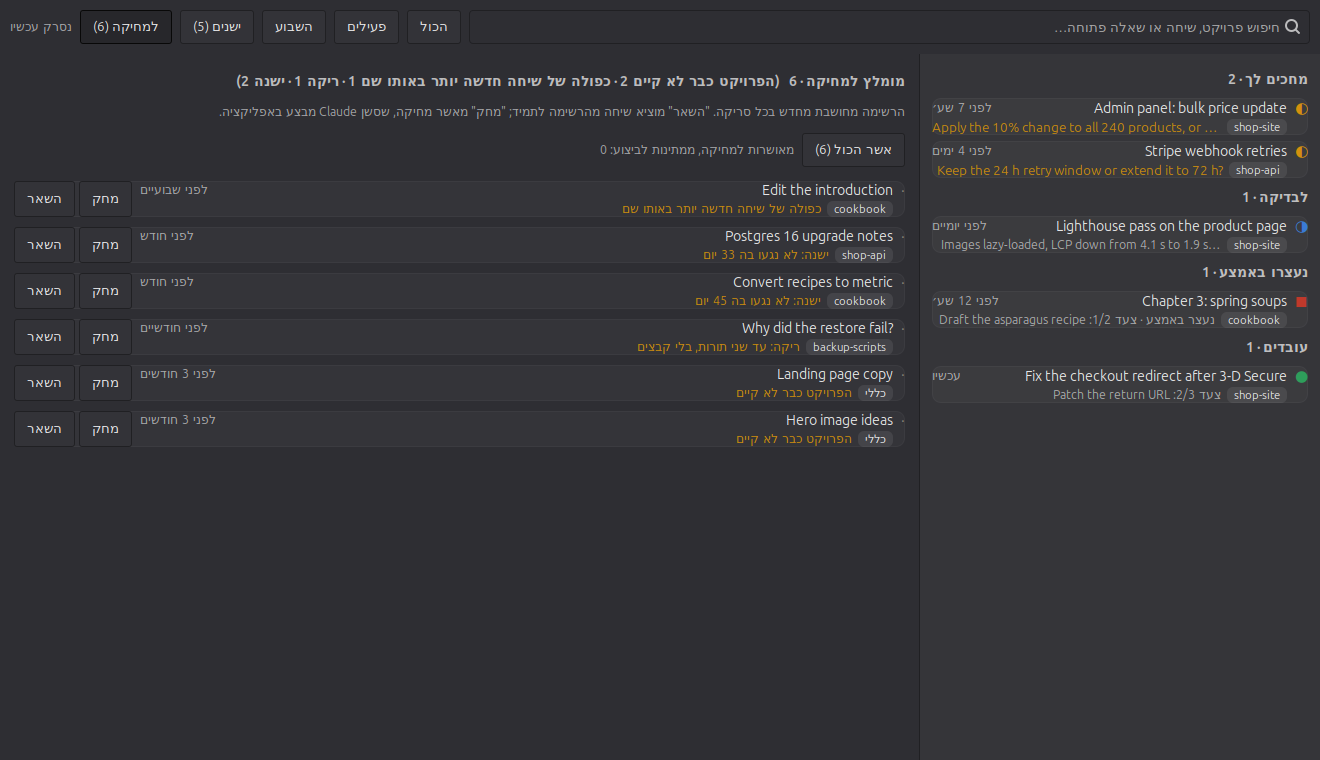
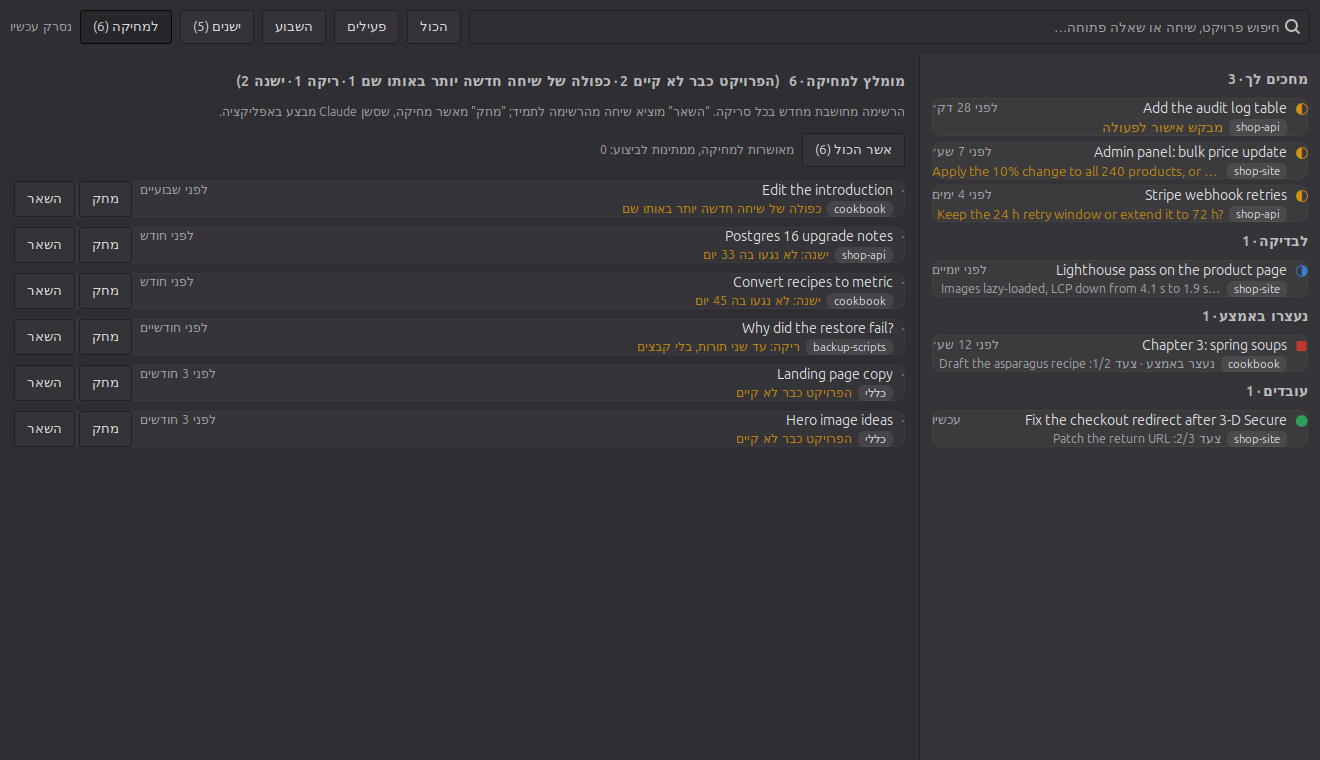
feat(demo): the demo home fakes the listing; waitingFor labels in the window

Changed region(s): [[0.7144, 0.1211, 0.9939, 0.6053]]

diff --git a/scripts/demo_home.py b/scripts/demo_home.py
@@ -1,10 +1,14 @@
 #!/usr/bin/env python3
 """Build a fake home with made-up projects and Claude sessions, for screenshots and trials.
 
-    MISHLAT_HOME=$(python3 scripts/demo_home.py) mishlat scan
-    MISHLAT_HOME=$(python3 scripts/demo_home.py) MISHLAT_PROC_ROOT=$MISHLAT_HOME/_proc mishlat
+    H=$(python3 scripts/demo_home.py)
+    MISHLAT_HOME=$H MISHLAT_AGENTS_CMD="cat $H/_agents.json" mishlat scan
+    MISHLAT_HOME=$H MISHLAT_AGENTS_CMD="cat $H/_agents.json" mishlat
 
 Prints the home's path. Nothing is personal: the projects, titles and prompts are invented.
+The live sessions are faked twice: `_agents.json` is what `claude agents --json` would print
+(the primary source), and `.claude/sessions` + `_proc` feed the registry fallback
+(`MISHLAT_AGENTS_DISABLE=1 MISHLAT_PROC_ROOT=$H/_proc` shows that path instead).
 """
 
 from __future__ import annotations
@@ -33,6 +37,7 @@ class Demo:
         os.makedirs(self.proc)
         os.makedirs(os.path.join(root, ".claude/sessions"))
         self.n = 0
+        self.agents: list[dict] = []  # what `claude agents --json` prints for the alive sessions
 
     def repo(self, rel: str, readme: str | None = None, branch: str = "main") -> str:
         path = os.path.join(self.root, "Desktop", rel)
@@ -46,7 +51,10 @@ class Demo:
 
     def session(self, cwd: str, title: str, ago_days: float, turns: int = 6, status: str | None = None,
                 question: str = "", detail: str = "", writes: int = 3, prompt: str = "", plan=None,
-                interrupted: bool = False, alive: bool = False, transcript: bool = True, starred: bool = False) -> str:
+                interrupted: bool = False, alive: bool = False, transcript: bool = True, starred: bool = False,
+                live_status: str = "busy", waiting_for: str | None = None) -> str:
+        """`alive`: a live Claude Code process; `live_status` is what the CLI's listing says of it
+        (busy / waiting / idle) and `waiting_for` what a waiting one waits for."""
         self.n += 1
         sid, cli = f"local_demo{self.n:04d}", f"0000{self.n:04d}-0000-4000-8000-{self.n:012d}"
         last = NOW - int(ago_days * DAY)
@@ -84,6 +92,12 @@ class Demo:
             fields = ["S"] + [str(i) for i in range(1, 19)] + ["777"] + ["0"] * 10
             with open(os.path.join(self.proc, str(pid), "stat"), "w") as f:
                 f.write(f"{pid} (claude) " + " ".join(fields) + "\n")
+            entry = {"pid": pid, "cwd": cwd, "kind": "interactive", "startedAt": last, "sessionId": cli,
+                     "name": title, "status": live_status}
+            if waiting_for:
+                entry["waitingFor"] = waiting_for
+            self.agents.append(entry)
+        if alive and live_status == "busy":  # a turn runs: the transcript is being written
             d = os.path.join(self.root, ".claude/projects", encode(cwd), f"{cli}.jsonl")
             os.utime(d, None)  # written just now: working
             with open(d, "a", encoding="utf-8") as f:
@@ -108,7 +122,10 @@ def build(root: str) -> None:
     d.session(shop, "Lighthouse pass on the product page", 2, turns=7, status="review_ready",
               detail="Images lazy-loaded, LCP down from 4.1 s to 1.9 s; please check the gallery on mobile")
     d.session(shop, "Migrate the newsletter form", 9, turns=5)
-    d.session(api, "Rate limiting for the search endpoint", 1, turns=11, writes=8, starred=True)
+    d.session(api, "Rate limiting for the search endpoint", 1, turns=11, writes=8, starred=True, alive=True,
+              live_status="idle")
+    d.session(api, "Add the audit log table", 0.02, turns=4, alive=True, live_status="waiting",
+              waiting_for="permission prompt")
     d.session(api, "Stripe webhook retries", 4, turns=8, status="blocked", question="Keep the 24 h retry window or extend it to 72 h?")
     d.session(api, "Postgres 16 upgrade notes", 33, turns=4, writes=0)
     d.session(book, "Chapter 3: spring soups", 0.5, turns=12, interrupted=True,
@@ -121,6 +138,8 @@ def build(root: str) -> None:
     d.session(tools, "Why did the restore fail?", 70, turns=2, writes=0)
     d.session(os.path.join(root, "Desktop", "old-landing-page"), "Landing page copy", 90, turns=5, transcript=False)
     d.session(os.path.join(root, "Desktop", "old-landing-page"), "Hero image ideas", 95, turns=1, writes=0)
+    with open(os.path.join(root, "_agents.json"), "w", encoding="utf-8") as f:
+        json.dump(d.agents, f, ensure_ascii=False, indent=2)
 
 
 def main() -> int:

diff --git a/tests/test_demo.py b/tests/test_demo.py
@@ -1,0 +1,61 @@
+"""The demo home (scripts/demo_home.py) must show both live sources: the CLI's listing and the registry."""
+
+import importlib.util
+import os
+import subprocess
+import tempfile
+import unittest
+
+from mishlat.agents import parse_agents_json
+from mishlat.scan import Scanner
+
+REPO = os.path.normpath(os.path.join(os.path.dirname(__file__), ".."))
+
+
+def load_demo():
+    spec = importlib.util.spec_from_file_location("demo_home", os.path.join(REPO, "scripts", "demo_home.py"))
+    module = importlib.util.module_from_spec(spec)
+    spec.loader.exec_module(module)
+    return module
+
+
+class DemoHomeTest(unittest.TestCase):
+    def setUp(self):
+        self.tmp = tempfile.TemporaryDirectory()
+        self.root = self.tmp.name
+        load_demo().build(self.root)
+        self.git = lambda *a, **k: subprocess.CompletedProcess(a, 0, "", "")
+
+    def tearDown(self):
+        self.tmp.cleanup()
+
+    def by_title(self, index) -> dict:
+        return {s["title"]: s for p in index["projects"] for s in p["sessions"]}
+
+    def test_listing_is_the_primary_source(self):
+        with open(os.path.join(self.root, "_agents.json"), encoding="utf-8") as f:
+            listing = parse_agents_json(f.read())
+        self.assertEqual(sorted(e.status for e in listing.values()), ["busy", "idle", "waiting"])
+        env = {"MISHLAT_AGENTS_CMD": f"cat {self.root}/_agents.json", "MISHLAT_PROC_ROOT": f"{self.root}/_proc"}
+        index = Scanner(self.root, env=env, git_run=self.git).scan()
+        self.assertEqual((index["errors"], index["live_source"]), ([], "agents"))
+        rows = self.by_title(index)
+        self.assertEqual(rows["Fix the checkout redirect after 3-D Secure"]["state"], "working")
+        self.assertEqual(rows["Rate limiting for the search endpoint"]["state"], "open")
+        audit = rows["Add the audit log table"]
+        self.assertEqual((audit["state"], audit["question"]), ("waiting", "permission prompt"))
+        self.assertEqual(index["totals"]["working"], 1)
+        self.assertEqual(index["totals"]["open"], 1)
+
+    def test_registry_fallback(self):
+        env = {"MISHLAT_AGENTS_DISABLE": "1", "MISHLAT_PROC_ROOT": f"{self.root}/_proc"}
+        index = Scanner(self.root, env=env, git_run=self.git).scan()
+        self.assertEqual((index["errors"], index["live_source"]), ([], "registry"))
+        rows = self.by_title(index)
+        self.assertEqual(rows["Fix the checkout redirect after 3-D Secure"]["state"], "working")  # written now
+        self.assertEqual(rows["Rate limiting for the search endpoint"]["state"], "open")           # alive, quiet
+        self.assertEqual(rows["Add the audit log table"]["state"], "open")                         # no listing
+
+
+if __name__ == "__main__":
+    unittest.main()

diff --git a/tests/test_view.py b/tests/test_view.py
@@ -40,6 +40,8 @@ class EnglishTest(unittest.TestCase):
         self.assertEqual(view.format_age(NOW - 10_000, NOW), "now")
         self.assertEqual(view.count_label(7), "7 sessions")
         self.assertEqual(view.subline(sess("working", step="Build", steps_done=1, steps_total=4)), "step 2/4: \u2068Build\u2069")
+        self.assertEqual(view.subline(sess("waiting", question="permission prompt")), "asks you to approve an action")
+        self.assertEqual(view.subline(sess("waiting", question="input needed")), "needs your input")
         self.assertEqual(view.cleanup_reason_text(sess("idle", cleanup="old", last_activity=NOW - 45 * DAY_MS), NOW),
                          "stale: untouched for 45 days")
         self.assertEqual(view.status_text(None, NOW, scanning=True), "scanning…")
@@ -68,6 +70,10 @@ class LabelTest(unittest.TestCase):
     def test_sublines(self):
         self.assertEqual(view.subline(sess("waiting", question="Commit?")), "Commit?")
         self.assertEqual(view.subline(sess("waiting")), "מחכה לתשובה שלך")
+        self.assertEqual(view.subline(sess("waiting", question="permission prompt")), "מבקש אישור לפעולה")
+        self.assertEqual(view.subline(sess("waiting", question="dialog open")), "חלון פתוח באפליקציה")
+        self.assertEqual(view.subline(sess("waiting", question="worker request")), "מבקש אישור ל-worker")
+        self.assertEqual(view.subline(sess("waiting", question="something new")), "something new")
         self.assertEqual(view.subline(sess("review", detail="PDF ready")), "PDF ready")
         self.assertEqual(view.subline(sess("stopped", step="Write", steps_done=1, steps_total=3)),
                          "נעצר באמצע · צעד 2/3: \u2068Write\u2069")

diff --git a/mishlat/view.py b/mishlat/view.py
@@ -13,6 +13,13 @@ COLOR = {"working": "#2e9e5b", "open": "#8a8578", "waiting": "#d4900f", "review"
 STATE_LABEL = {"working": "עובד עכשיו", "open": "פתוח באפליקציה", "waiting": "מחכה לך",
                "review": "לבדיקה", "stopped": "נעצר באמצע", "idle": "סגור"}
 SECTIONS = (("waiting", "מחכים לך"), ("review", "לבדיקה"), ("stopped", "נעצרו באמצע"), ("working", "עובדים"))
+WAITING_FOR = {  # what `claude agents --json` says a session waits for (its five documented values)
+    "permission prompt": "מבקש אישור לפעולה",
+    "input needed": "מחכה לקלט ממך",
+    "sandbox request": "מבקש אישור ל-sandbox",
+    "worker request": "מבקש אישור ל-worker",
+    "dialog open": "חלון פתוח באפליקציה",
+}
 FILTERS = (("all", "הכול"), ("active", "פעילים"), ("week", "השבוע"), ("stale", "ישנים"), ("cleanup", "למחיקה"))
 CLEANUP_LABEL = {
     "gone": "הפרויקט כבר לא קיים",
@@ -85,7 +92,8 @@ def subline(s: dict) -> str:
     """The second line of a session row: what the user needs to know about it now (translated)."""
     state = s["state"]
     if state == "waiting":
-        return s.get("question") or t("מחכה לתשובה שלך")
+        question = s.get("question")
+        return t(WAITING_FOR[question]) if question in WAITING_FOR else (question or t("מחכה לתשובה שלך"))
     if state == "review":
         return s.get("detail") or t("סיים, מחכה לבדיקה")
     if state == "stopped":

diff --git a/plugin/lib/mishlat/view.py b/plugin/lib/mishlat/view.py
@@ -13,6 +13,13 @@ COLOR = {"working": "#2e9e5b", "open": "#8a8578", "waiting": "#d4900f", "review"
 STATE_LABEL = {"working": "עובד עכשיו", "open": "פתוח באפליקציה", "waiting": "מחכה לך",
                "review": "לבדיקה", "stopped": "נעצר באמצע", "idle": "סגור"}
 SECTIONS = (("waiting", "מחכים לך"), ("review", "לבדיקה"), ("stopped", "נעצרו באמצע"), ("working", "עובדים"))
+WAITING_FOR = {  # what `claude agents --json` says a session waits for (its five documented values)
+    "permission prompt": "מבקש אישור לפעולה",
+    "input needed": "מחכה לקלט ממך",
+    "sandbox request": "מבקש אישור ל-sandbox",
+    "worker request": "מבקש אישור ל-worker",
+    "dialog open": "חלון פתוח באפליקציה",
+}
 FILTERS = (("all", "הכול"), ("active", "פעילים"), ("week", "השבוע"), ("stale", "ישנים"), ("cleanup", "למחיקה"))
 CLEANUP_LABEL = {
     "gone": "הפרויקט כבר לא קיים",
@@ -85,7 +92,8 @@ def subline(s: dict) -> str:
     """The second line of a session row: what the user needs to know about it now (translated)."""
     state = s["state"]
     if state == "waiting":
-        return s.get("question") or t("מחכה לתשובה שלך")
+        question = s.get("question")
+        return t(WAITING_FOR[question]) if question in WAITING_FOR else (question or t("מחכה לתשובה שלך"))
     if state == "review":
         return s.get("detail") or t("סיים, מחכה לבדיקה")
     if state == "stopped":

diff --git a/mishlat/strings.py b/mishlat/strings.py
@@ -19,6 +19,10 @@ EN: dict[str, str] = {
     "עובד עכשיו": "working now", "פתוח באפליקציה": "open in the app", "מחכה לך": "waiting for you",
     "לבדיקה": "to review", "נעצר באמצע": "stopped midway", "סגור": "closed",
     "מחכים לך": "Waiting for you", "נעצרו באמצע": "Stopped midway", "עובדים": "Working",
+    # what `claude agents --json` says a session waits for
+    "מבקש אישור לפעולה": "asks you to approve an action", "מחכה לקלט ממך": "needs your input",
+    "מבקש אישור ל-sandbox": "asks to approve a sandbox request", "מבקש אישור ל-worker": "asks to approve a worker request",
+    "חלון פתוח באפליקציה": "a dialog is open in the app",
     "הכול": "All", "פעילים": "Active", "השבוע": "This week", "ישנים": "Stale", "למחיקה": "To delete",
     "ישנים ({n})": "Stale ({n})", "למחיקה ({n})": "To delete ({n})",
     # cleanup reasons

diff --git a/plugin/lib/mishlat/strings.py b/plugin/lib/mishlat/strings.py
@@ -19,6 +19,10 @@ EN: dict[str, str] = {
     "עובד עכשיו": "working now", "פתוח באפליקציה": "open in the app", "מחכה לך": "waiting for you",
     "לבדיקה": "to review", "נעצר באמצע": "stopped midway", "סגור": "closed",
     "מחכים לך": "Waiting for you", "נעצרו באמצע": "Stopped midway", "עובדים": "Working",
+    # what `claude agents --json` says a session waits for
+    "מבקש אישור לפעולה": "asks you to approve an action", "מחכה לקלט ממך": "needs your input",
+    "מבקש אישור ל-sandbox": "asks to approve a sandbox request", "מבקש אישור ל-worker": "asks to approve a worker request",
+    "חלון פתוח באפליקציה": "a dialog is open in the app",
     "הכול": "All", "פעילים": "Active", "השבוע": "This week", "ישנים": "Stale", "למחיקה": "To delete",
     "ישנים ({n})": "Stale ({n})", "למחיקה ({n})": "To delete ({n})",
     # cleanup reasons

diff --git a/scripts/test_graph.py b/scripts/test_graph.py
@@ -44,6 +44,8 @@ CONFIG = {
 MANUAL_MAP: dict[str, list[str]] = {
     "tests/test_store.py": ["mishlat/store.py", "mishlat/paths.py"],
     "tests/test_live.py": ["mishlat/live.py"],
+    "tests/test_agents.py": ["mishlat/agents.py"],
+    "tests/test_demo.py": ["scripts/demo_home.py", "mishlat/scan.py"],
     "tests/test_transcripts.py": ["mishlat/transcripts.py"],
     "tests/test_folders.py": ["mishlat/folders.py", "mishlat/gitinfo.py"],
     "tests/test_model_resolve.py": ["mishlat/model.py"],

diff --git a/scripts/screenshot.py b/scripts/screenshot.py
@@ -21,6 +21,7 @@ def main() -> int:
                           check=True).stdout.strip()
     os.environ["MISHLAT_HOME"] = home
     os.environ["MISHLAT_PROC_ROOT"] = os.path.join(home, "_proc")
+    os.environ["MISHLAT_AGENTS_CMD"] = "cat " + os.path.join(home, "_agents.json")
     os.makedirs(OUT, exist_ok=True)
     import gi
     gi.require_version("Gtk", "3.0")

diff --git a/features-prompts/agents-json/_PROGRESS.md b/features-prompts/agents-json/_PROGRESS.md
@@ -53,11 +53,11 @@ registry + `/proc` reader as the fallback, so nothing gets worse when the comman
    the "Needs you" list has a row ending with `— permission prompt`.
 5. `python3 -m pytest -q` ⇒ green; `python3 scripts/screenshot.py` ⇒ six PNGs rewritten.
 
-## ⏳ Pending (3/5 completed):
+## ⏳ Pending (4/5 completed):
 1. ✅ `01_parse.md` — `mishlat/agents.py`: `LiveEntry`, `parse_agents_json`, `read_agents` with a hard timeout, the env overrides; fixture + tests.
 2. ✅ `02_model.md` — `state_of` takes the CLI status; `waitingFor` as the row's question; `Live` carries status; tests.
 3. ✅ `03_scan.md` — the scan reads the listing first and falls back to the registry; `index["live_source"]`; the summary prints it; end-to-end tests.
-4. `04_demo.md` — the demo home fakes the listing (`_agents.json`), screenshots use it, the window translates `waitingFor`.
+4. ✅ `04_demo.md` — the demo home fakes the listing (`_agents.json`), screenshots use it, the window translates `waitingFor`.
 5. `05_release.md` — README, APP_OVERVIEW, plugin docs, version 0.1.2, plugin sync, graphs, local install and a check against the real CLI.
 
 > כל צעד עצמאי, נוגע ב-2-4 קבצים, עם טסטים, ו-commit נפרד.
